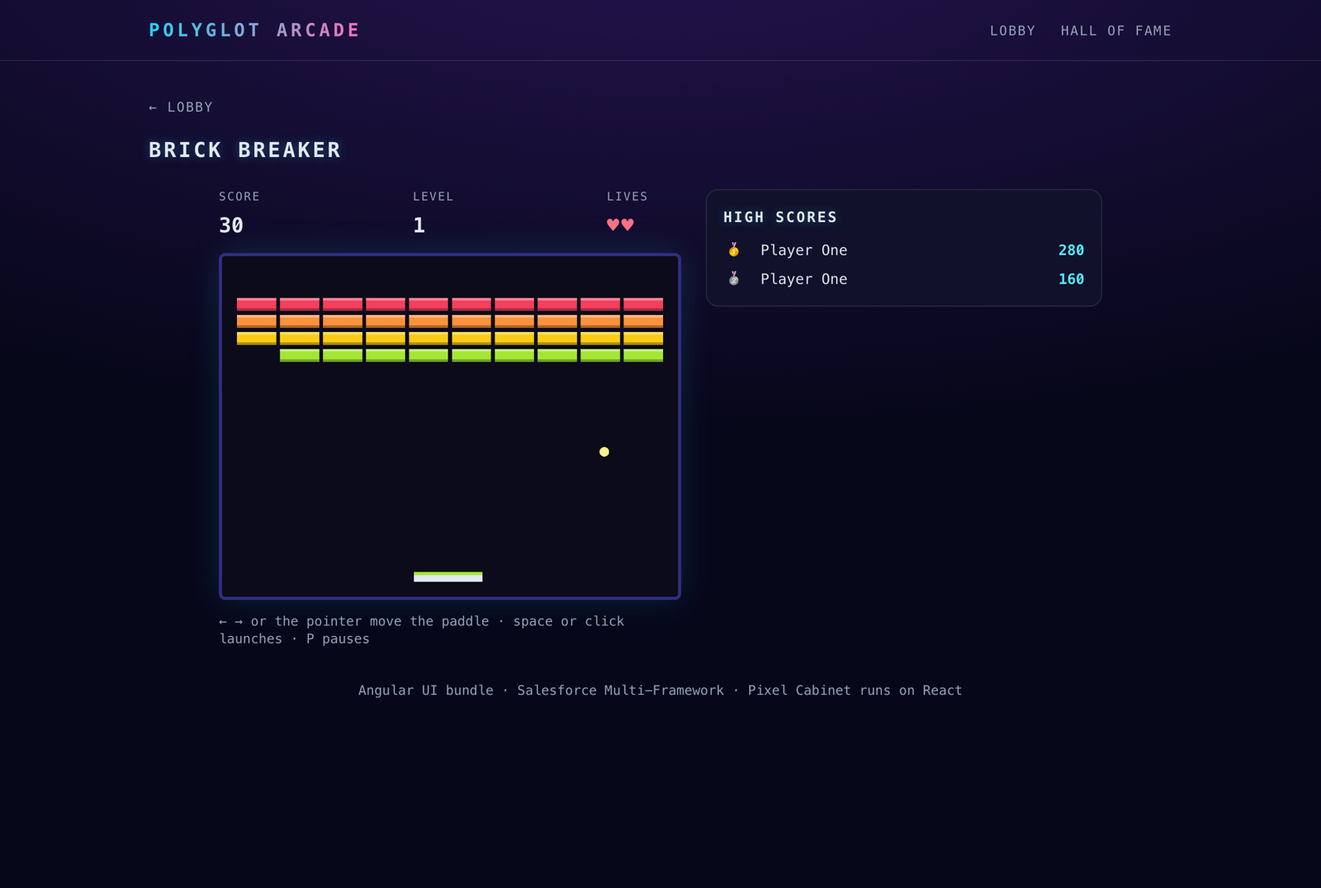
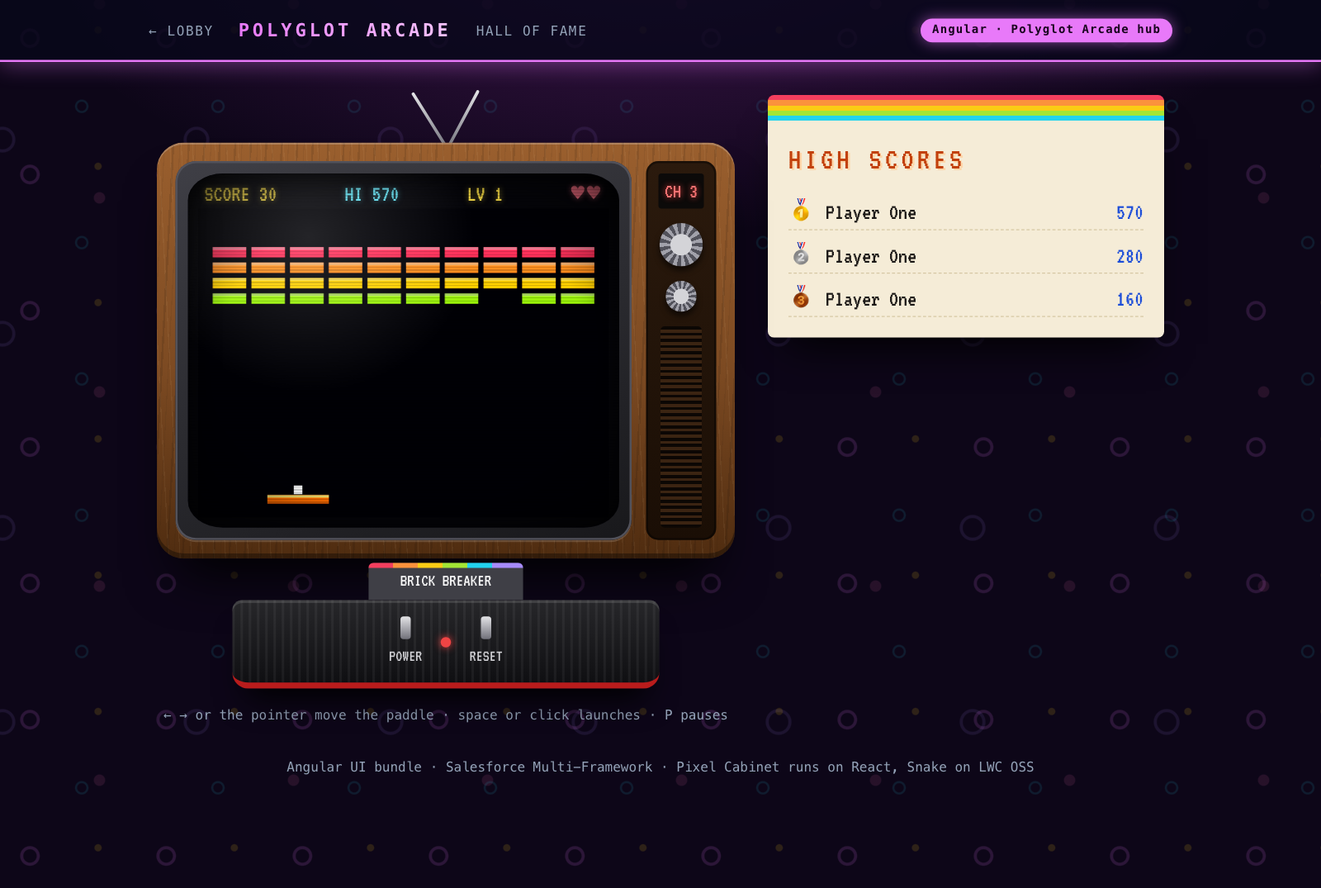
docs(machines): ADR 0002, font notices and new screenshots
ADR 0002 records the surface colors and machines. README, CONTRIBUTING and the bundle READMEs describe surface.css and machine styles, THIRD_PARTY_NOTICES lists the OFL fonts, and the lobby, machine and hall of fame screenshots are retaken in a scratch org.

diff --git a/README.md b/README.md
@@ -4,7 +4,7 @@
 [![Release](https://img.shields.io/github/v/release/svierk/polyglot-arcade?sort=semver)](https://github.com/svierk/polyglot-arcade/releases/latest)
 [![License: MIT](https://img.shields.io/badge/License-MIT-blue.svg)](LICENSE)
 
-<img src="./images/lobby.png" alt="Polyglot Arcade lobby with Block Drop, Pellet Chase, Four in a Row, Brick Breaker and Snake" width="900"/>
+<img src="./images/lobby.png" alt="Polyglot Arcade lobby in the magenta arcade hall: game cards with pixel-art teaser marquees, each saying where its game lives" width="900"/>
 
 A retro arcade that runs on the Salesforce Platform and shows **Salesforce Multi-Framework** end to end: an **Angular** app and a **React** app live side by side in one org, share the same CRM data and embed into Lightning pages as **microfrontends** - next to an **LWC OSS** game that is hosted outside Salesforce altogether.
 
@@ -20,6 +20,7 @@ Polyglot Arcade turns that into a playful reference project:
 - **CRM data as the score sheet.** Every round becomes a record - visible in the shipped reports and dashboard, in a native LWC leaderboard and in both apps.
 - **Microfrontends in Lightning.** One host LWC drops any game onto a Lightning page, talks to it through events, and attributes rounds to the Account it is placed on. Games without a Salesforce session of their own get their score saved by the host.
 - **One arcade, not three apps.** The Angular hub is the only lobby, the React cabinet is a machine it launches, and the Lightning app _Arcade Floor_ is where microfrontends are composed. A shared marquee bar and return links connect them.
+- **You can see the architecture.** Every surface has its own color and room - a magenta arcade hall for the Angular hub, a cyan machine room for the React cabinet, blue for the Arcade Floor - and every game is a machine of its own. A switch between frameworks is something you see, not something you have to know.
 
 ## 🧩 Salesforce Multi-Framework in a nutshell
 
@@ -45,13 +46,25 @@ React and Angular are generally available for UI bundles as of Winter '27. Embed
 
 > The games are original implementations of classic mechanics. Names and artwork are deliberately generic - no trademarks of the original arcade titles are used.
 
-| Four in a Row (Angular hub)                                                                                                                                | Brick Breaker (Angular hub)                                                                                                                      |
-| ---------------------------------------------------------------------------------------------------------------------------------------------------------- | ------------------------------------------------------------------------------------------------------------------------------------------------ |
-| <img src="./images/four-in-a-row.png" alt="Four in a Row won against the CPU, with the hub leaderboard" width="440"/>                                      | <img src="./images/brick-breaker.png" alt="Brick Breaker in progress next to its leaderboard" width="440"/>                                      |
-| **Block Drop (React cabinet)**                                                                                                                             | **Pellet Chase (React cabinet)**                                                                                                                 |
-| <img src="./images/pixel-cabinet.png" alt="Block Drop in progress next to its leaderboard" width="440"/>                                                   | <img src="./images/pellet-chase.png" alt="Pellet Chase right after a power pellet, two frightened ghosts, next to its leaderboard" width="440"/> |
-| **Microfrontend on a Lightning page**                                                                                                                      | **Hall of fame across all surfaces**                                                                                                             |
-| <img src="./images/snake.png" alt="Snake embedded on its page in the Arcade Floor app, with the way back to the hub and the LWC leaderboard" width="440"/> | <img src="./images/hall-of-fame.png" alt="Hall of fame listing scores from the cabinet and from embedded play" width="440"/>                     |
+**Same hall, different machines.** Every game has a cabinet of its own, with its HUD, result screen and high-score card in its style:
+
+| Game          | Machine                                                                                                            |
+| ------------- | ------------------------------------------------------------------------------------------------------------------ |
+| Pellet Chase  | Upright arcade cabinet: backlit marquee, CRT with scanlines, joystick panel, coin door, attract-screen high scores |
+| Block Drop    | Handheld brick-game console: grey-olive LCD with segment digits, direction and rotate keys as touch controls       |
+| Brick Breaker | 80s home console on a wood-grain CRT TV, with the cartridge box as high-score card                                 |
+| Four in a Row | Tabletop toy: glossy frame on feet, discs that drop and bounce, the result on the lid of the game box              |
+| Snake         | Retro phone with its own LCD; embedded, the Lightning page shows the part with the screen and the navigation keys  |
+
+In the hub lobby every game card carries a teaser marquee in the look of its machine and says where the game lives.
+
+| Four in a Row (Angular hub)                                                                                                                                            | Brick Breaker (Angular hub)                                                                                                                                          |
+| ---------------------------------------------------------------------------------------------------------------------------------------------------------------------- | -------------------------------------------------------------------------------------------------------------------------------------------------------------------- |
+| <img src="./images/four-in-a-row.png" alt="Four in a Row as a tabletop toy, won against the CPU, the result on the game box lid next to its high scores" width="440"/> | <img src="./images/brick-breaker.png" alt="Brick Breaker on a wood-grain CRT TV with the console and cartridge, next to the cartridge box high scores" width="440"/> |
+| **Block Drop (React cabinet)**                                                                                                                                         | **Pellet Chase (React cabinet)**                                                                                                                                     |
+| <img src="./images/pixel-cabinet.png" alt="Block Drop on a red handheld brick game with an LCD, in the cyan machine room of the Pixel Cabinet" width="440"/>           | <img src="./images/pellet-chase.png" alt="Pellet Chase in an upright arcade cabinet with CRT, joystick panel and the attract-screen high scores" width="440"/>       |
+| **Microfrontend on a Lightning page**                                                                                                                                  | **Hall of fame across all surfaces**                                                                                                                                 |
+| <img src="./images/snake.png" alt="Snake embedded on its page in the Arcade Floor app, with the way back to the hub and the LWC leaderboard" width="440"/>             | <img src="./images/hall-of-fame.png" alt="Hall of fame listing scores, the source of each round in the color of its surface" width="440"/>                           |
 
 ## 🏗 Architecture
 
@@ -93,15 +106,15 @@ flowchart LR
     LB -- "GraphQL wire" --> Data
 ```
 
-Every surface has one role (see [ADR 0001](docs/decisions/0001-surface-roles.md)):
+Every surface has one role (see [ADR 0001](docs/decisions/0001-surface-roles.md)) and a color of its own:
 
-| Surface                                 | Role                                                                                                                                                                                                                                            |
-| --------------------------------------- | ----------------------------------------------------------------------------------------------------------------------------------------------------------------------------------------------------------------------------------------------- |
-| **Polyglot Arcade** (Angular UI bundle) | The only lobby and hall of fame, and the entry point. It launches every game, wherever it lives.                                                                                                                                                |
-| **Pixel Cabinet** (React UI bundle)     | A machine, not a second hub. It has no lobby: opening it sends the player to the hub lobby. The hub launches its games at `/play/<game>`, Lightning frames them at `/embed`.                                                                    |
-| **Arcade Floor** (Lightning app)        | Where microfrontends are composed: the **Snake** page with the Snake and its leaderboard, and the **Arcade Account** record page (app default for Accounts) with the cabinet and the Account's leaderboard. Rounds there count for the Account. |
+| Surface                                 | Color               | Role                                                                                                                                                                                                                                            |
+| --------------------------------------- | ------------------- | ----------------------------------------------------------------------------------------------------------------------------------------------------------------------------------------------------------------------------------------------- |
+| **Polyglot Arcade** (Angular UI bundle) | magenta arcade hall | The only lobby and hall of fame, and the entry point. It launches every game, wherever it lives.                                                                                                                                                |
+| **Pixel Cabinet** (React UI bundle)     | cyan machine room   | A machine, not a second hub. It has no lobby: opening it sends the player to the hub lobby. The hub launches its games at `/play/<game>`, Lightning frames them at `/embed`.                                                                    |
+| **Arcade Floor** (Lightning app)        | blue                | Where microfrontends are composed: the **Snake** page with the Snake and its leaderboard, and the **Arcade Account** record page (app default for Accounts) with the cabinet and the Account's leaderboard. Rounds there count for the Account. |
 
-Every standalone page starts with the same marquee bar: `← Lobby` and a badge naming the surface (`Angular · Polyglot Arcade hub`, `React · Pixel Cabinet UI bundle`), so a switch between bundles is visible instead of feeling like a break. In Lightning, the host card links back with `← Polyglot Arcade`.
+Every standalone page starts with the same marquee bar: `← Lobby` and a badge naming the surface (`Angular · Polyglot Arcade hub`, `React · Pixel Cabinet UI bundle`). The bar is laid out the same everywhere but glows in the color of its surface, and the room below it is the surface's own: the hub is a magenta arcade hall, the cabinet a cyan machine room. Lobby cards, launch buttons and the hall of fame use the same colors to say where a game lives and where a round was played, and the embedded cabinet carries a slim `React · Pixel Cabinet UI bundle` tag inside the Lightning frame. A switch between bundles is visible instead of feeling like a break (see [ADR 0002](docs/decisions/0002-surfaces-and-machines.md)). In Lightning, the host card links back with `← Polyglot Arcade`.
 
 The demo covers four integration patterns:
 
@@ -348,6 +361,6 @@ Contributions are welcome - new games, fixes and ideas for further integration p
 
 ## 📄 License
 
-[MIT](LICENSE) © Sebastiano Schwarz. Parts of the project tooling and the UI kits are derived from Salesforce's project templates under the BSD 3-Clause License, see [THIRD_PARTY_NOTICES.md](THIRD_PARTY_NOTICES.md).
+[MIT](LICENSE) © Sebastiano Schwarz. Parts of the project tooling and the UI kits are derived from Salesforce's project templates under the BSD 3-Clause License, and the machines use fonts under the SIL Open Font License, see [THIRD_PARTY_NOTICES.md](THIRD_PARTY_NOTICES.md).
 
 This is a community project and is not affiliated with or endorsed by Salesforce.

diff --git a/THIRD_PARTY_NOTICES.md b/THIRD_PARTY_NOTICES.md
@@ -1,6 +1,6 @@
 # Third-party notices
 
-Polyglot Arcade is licensed under the [MIT License](LICENSE). Parts of it are derived from third-party templates under their own licenses, listed below.
+Polyglot Arcade is licensed under the [MIT License](LICENSE). Parts of it are derived from third-party templates, and it bundles third-party fonts, under their own licenses, listed below.
 
 ## Salesforce Multi-Framework project templates
 
@@ -25,4 +25,104 @@ Redistribution and use in source and binary forms, with or without modification,
 * Neither the name of Salesforce nor the names of its contributors may be used to endorse or promote products derived from this software without specific prior written permission.
 
 THIS SOFTWARE IS PROVIDED BY SALESFORCE AND CONTRIBUTORS "AS IS" AND ANY EXPRESS OR IMPLIED WARRANTIES, INCLUDING, BUT NOT LIMITED TO, THE IMPLIED WARRANTIES OF MERCHANTABILITY AND FITNESS FOR A PARTICULAR PURPOSE ARE DISCLAIMED. IN NO EVENT SHALL SALESFORCE OR CONTRIBUTORS BE LIABLE FOR ANY DIRECT, INDIRECT, INCIDENTAL, SPECIAL, EXEMPLARY, OR CONSEQUENTIAL DAMAGES (INCLUDING, BUT NOT LIMITED TO, PROCUREMENT OF SUBSTITUTE GOODS OR SERVICES; LOSS OF USE, DATA, OR PROFITS; OR BUSINESS INTERRUPTION) HOWEVER CAUSED AND ON ANY THEORY OF LIABILITY, WHETHER IN CONTRACT, STRICT LIABILITY, OR TORT (INCLUDING NEGLIGENCE OR OTHERWISE) ARISING IN ANY WAY OUT OF THE USE OF THIS SOFTWARE, EVEN IF ADVISED OF THE POSSIBILITY OF SUCH DAMAGE.
+```
+
+## Fonts
+
+The machines use fonts under the SIL Open Font License 1.1. They are installed from npm and bundled with the UI bundles at build time, unmodified; no font is loaded from a CDN.
+
+| Font           | Used by                                 | npm package                  | Copyright                                                                                                     |
+| -------------- | --------------------------------------- | ---------------------------- | ------------------------------------------------------------------------------------------------------------- |
+| Press Start 2P | Pixel Cabinet: Pellet Chase, Block Drop | `@fontsource/press-start-2p` | Copyright 2012 The Press Start 2P Project Authors (cody@zone38.net), with Reserved Font Name "Press Start 2P" |
+| DSEG7 Classic  | Pixel Cabinet: Block Drop               | `dseg`                       | Copyright (c) 2017, keshikan (http://www.keshikan.net), with Reserved Font Name "DSEG"                        |
+| VT323          | Polyglot Arcade: Brick Breaker          | `@fontsource/vt323`          | Copyright 2011, The VT323 Project Authors (peter.hull@oikoi.com)                                              |
+| Fredoka        | Polyglot Arcade: Four in a Row          | `@fontsource/fredoka`        | Copyright 2016 The Fredoka Project Authors (https://github.com/hafontia/Fredoka-One)                          |
+
+```
+-----------------------------------------------------------
+SIL OPEN FONT LICENSE Version 1.1 - 26 February 2007
+-----------------------------------------------------------
+
+PREAMBLE
+The goals of the Open Font License (OFL) are to stimulate worldwide
+development of collaborative font projects, to support the font creation
+efforts of academic and linguistic communities, and to provide a free and
+open framework in which fonts may be shared and improved in partnership
+with others.
+
+The OFL allows the licensed fonts to be used, studied, modified and
+redistributed freely as long as they are not sold by themselves. The
+fonts, including any derivative works, can be bundled, embedded,
+redistributed and/or sold with any software provided that any reserved
+names are not used by derivative works. The fonts and derivatives,
+however, cannot be released under any other type of license. The
+requirement for fonts to remain under this license does not apply
+to any document created using the fonts or their derivatives.
+
+DEFINITIONS
+"Font Software" refers to the set of files released by the Copyright
+Holder(s) under this license and clearly marked as such. This may
+include source files, build scripts and documentation.
+
+"Reserved Font Name" refers to any names specified as such after the
+copyright statement(s).
+
+"Original Version" refers to the collection of Font Software components as
+distributed by the Copyright Holder(s).
+
+"Modified Version" refers to any derivative made by adding to, deleting,
+or substituting -- in part or in whole -- any of the components of the
+Original Version, by changing formats or by porting the Font Software to a
+new environment.
+
+"Author" refers to any designer, engineer, programmer, technical
+writer or other person who contributed to the Font Software.
+
+PERMISSION & CONDITIONS
+Permission is hereby granted, free of charge, to any person obtaining
+a copy of the Font Software, to use, study, copy, merge, embed, modify,
+redistribute, and sell modified and unmodified copies of the Font
+Software, subject to the following conditions:
+
+1) Neither the Font Software nor any of its individual components,
+in Original or Modified Versions, may be sold by itself.
+
+2) Original or Modified Versions of the Font Software may be bundled,
+redistributed and/or sold with any software, provided that each copy
+contains the above copyright notice and this license. These can be
+included either as stand-alone text files, human-readable headers or
+in the appropriate machine-readable metadata fields within text or
+binary files as long as those fields can be easily viewed by the user.
+
+3) No Modified Version of the Font Software may use the Reserved Font
+Name(s) unless explicit written permission is granted by the corresponding
+Copyright Holder. This restriction only applies to the primary font name as
+presented to the users.
+
+4) The name(s) of the Copyright Holder(s) or the Author(s) of the Font
+Software shall not be used to promote, endorse or advertise any
+Modified Version, except to acknowledge the contribution(s) of the
+Copyright Holder(s) and the Author(s) or with their explicit written
+permission.
+
+5) The Font Software, modified or unmodified, in part or in whole,
+must be distributed entirely under this license, and must not be
+distributed under any other license. The requirement for fonts to
+remain under this license does not apply to any document created
+using the Font Software.
+
+TERMINATION
+This license becomes null and void if any of the above conditions are
+not met.
+
+DISCLAIMER
+THE FONT SOFTWARE IS PROVIDED "AS IS", WITHOUT WARRANTY OF ANY KIND,
+EXPRESS OR IMPLIED, INCLUDING BUT NOT LIMITED TO ANY WARRANTIES OF
+MERCHANTABILITY, FITNESS FOR A PARTICULAR PURPOSE AND NONINFRINGEMENT
+OF COPYRIGHT, PATENT, TRADEMARK, OR OTHER RIGHT. IN NO EVENT SHALL THE
+COPYRIGHT HOLDER BE LIABLE FOR ANY CLAIM, DAMAGES OR OTHER LIABILITY,
+INCLUDING ANY GENERAL, SPECIAL, INDIRECT, INCIDENTAL, OR CONSEQUENTIAL
+DAMAGES, WHETHER IN AN ACTION OF CONTRACT, TORT OR OTHERWISE, ARISING
+FROM, OUT OF THE USE OR INABILITY TO USE THE FONT SOFTWARE OR FROM
+OTHER DEALINGS IN THE FONT SOFTWARE.
 ```

diff --git a/docs/decisions/0002-surfaces-and-machines.md b/docs/decisions/0002-surfaces-and-machines.md
@@ -1,0 +1,45 @@
+# 0002 - Two halls, one bar: surfaces and machines you can tell apart
+
+- **Status:** Accepted
+- **Date:** 2026-10-24
+- **Release:** v0.7.0 ([#17](https://github.com/svierk/polyglot-arcade/issues/17))
+
+## Context
+
+Up to v0.6.0 the Angular hub and the React cabinet shared almost their whole look: the same violet background, the same cyan neon, the same panel, the same "High scores" card and button. Only a small badge in the marquee bar said which bundle was on screen. The four in-org games ran in that one chrome and looked as if they came out of one game box.
+
+Polyglot Arcade exists to show Salesforce Multi-Framework. That two frameworks run side by side is the point of the demo, so it should be seen on the page, not only read in a badge. A real arcade has the same problem the other way round: one hall, but every machine has its own cabinet, screen and character. The Snake already showed how that works: a retro phone with its own LCD.
+
+## Decision
+
+**Same hall, different machines - and two halls, one bar.** There are two levels of identity:
+
+| Level   | What is shared                                                                                     | What is its own                                                                                                                                                                                                            |
+| ------- | -------------------------------------------------------------------------------------------------- | -------------------------------------------------------------------------------------------------------------------------------------------------------------------------------------------------------------------------- |
+| Surface | The marquee bar's layout (`← Lobby`, logo, badge), base tokens, round result and high-score markup | A surface color and a room: the Angular hub is a **magenta arcade hall** with a carpet pattern, the React cabinet a **cyan machine room** with a blueprint grid. Lightning's Arcade Floor is **blue**.                     |
+| Machine | Nothing but the data: score, level, the leaderboard rows                                           | Cabinet, screen, HUD, controls, result screen and high-score card: an upright CRT cabinet (Pellet Chase), a handheld brick game (Block Drop), a console on a wood-grain TV (Brick Breaker), a tabletop toy (Four in a Row) |
+
+The surface colors are used wherever a surface is named: the marquee bar and badge, a legend and a "Lives in" line on every lobby card, the launch buttons (they take the color of the surface they open), the source of each round in the hall of fame, and a slim `React · Pixel Cabinet UI bundle` tag below the compact machine that Lightning frames at `/embed`.
+
+How it is built:
+
+- `arcade.css` stays identical in both bundles, but only holds the shared part. Each bundle's `surface.css` sets `--surface` and the room. Machine styles live with their game: `games/<key>/machine.css` in React, the component styles in Angular (`ViewEncapsulation.None`, every rule scoped to the component's element, so the machine can style the projected result screen).
+- The stage that saves rounds stays generic. React passes the result screen to the game component as a prop, Angular projects it into the machine with `<ng-content>`. The high-score card is one shared component per bundle, dressed by the machine's styles (`.machine-<key> .hiscores`).
+- Fonts (Press Start 2P, DSEG7, VT323, Fredoka) come from npm under the SIL Open Font License and are bundled at build time. No CDN, no CSP change.
+- Teaser marquees in the lobby are pixel art per `Game_Key__c`, kept as data in the hub (`games/marquees.ts`) and drawn as SVG, so they need no asset path. Unknown games keep the plain card.
+- Game rules stay untouched in `engine.ts`. Canvas games only changed how they draw (an LCD for Block Drop, chunky 80s colors for Brick Breaker); scanlines and glare are CSS overlays above the canvas.
+- Nothing in a machine is sized by the viewport, and flicker, blinking lights and bounces stop under `prefers-reduced-motion`.
+
+## Consequences
+
+- A change to the marquee bar, the result or high-score markup still has to land in both copies of `arcade.css`; a change to a machine touches only its game folder.
+- Angular's per-component style budget is raised to 8 kB (warning) / 16 kB (error): a machine is more CSS than a panel.
+- The embedded Snake shows a cut-out of its phone at full size - screen and navigation keys - instead of the whole phone, so it fits a Lightning page without scrolling. That change lives in the Snake repository.
+- New games need a machine concept, a teaser marquee and, if they use a new font, an entry in `THIRD_PARTY_NOTICES.md`.
+
+## Rejected options
+
+- **Color only.** Same room for both bundles, only the bar in the surface color. Easy to miss once the machines fill the page.
+- **Framed surfaces.** A frame in the surface color around every page with a corner label, like a boundary in an architecture diagram. Very explicit, but it overlaps with the Tech X-ray planned for v0.8.0.
+- **Machine look-alikes of real products.** A blue four-in-a-row frame or a yellow handheld with slanted A/B buttons read as specific trademarked products. The machines keep the mechanics' classic shapes but their own colors and layouts.
+- **Fonts from a CDN.** Would need a CSP Trusted Site per font host and breaks without network access to it.

diff --git a/CONTRIBUTING.md b/CONTRIBUTING.md
@@ -20,7 +20,7 @@ See the [README](README.md) for the architecture and the setup of a scratch org.
 3. Keep changes focused and follow the conventions of the existing code:
    - Game rules live in a framework-free `engine.ts` with unit tests; the React or Angular component only renders and handles input.
    - Data access goes through `arcadeApi.ts` (React) or `ArcadeApi` (Angular) - GraphQL operations are validated against the org schema by `npm run graphql:codegen`.
-   - The arcade theme (`arcade.css`) exists in both bundles - change both copies together.
+   - Same hall, different machines: `arcade.css` (tokens, marquee bar, round result and high-score markup) exists in both bundles - change both copies together. Each bundle's `surface.css` holds its own surface color and room, each game's look lives in its folder (`machine.css` in React, the component styles in Angular). Fonts come from npm packages under an open license and are listed in [THIRD_PARTY_NOTICES.md](THIRD_PARTY_NOTICES.md).
    - All UI texts, code and docs are in English.
 4. Make sure formatting, linting and tests pass - the [Validation workflow](.github/workflows/ci.yml) runs the same checks on every pull request.
 5. Use [Conventional Commits](https://www.conventionalcommits.org/) with a scope, e.g. `feat(cabinet): add pellet chase ghosts` or `fix(hub): disable full columns`.
